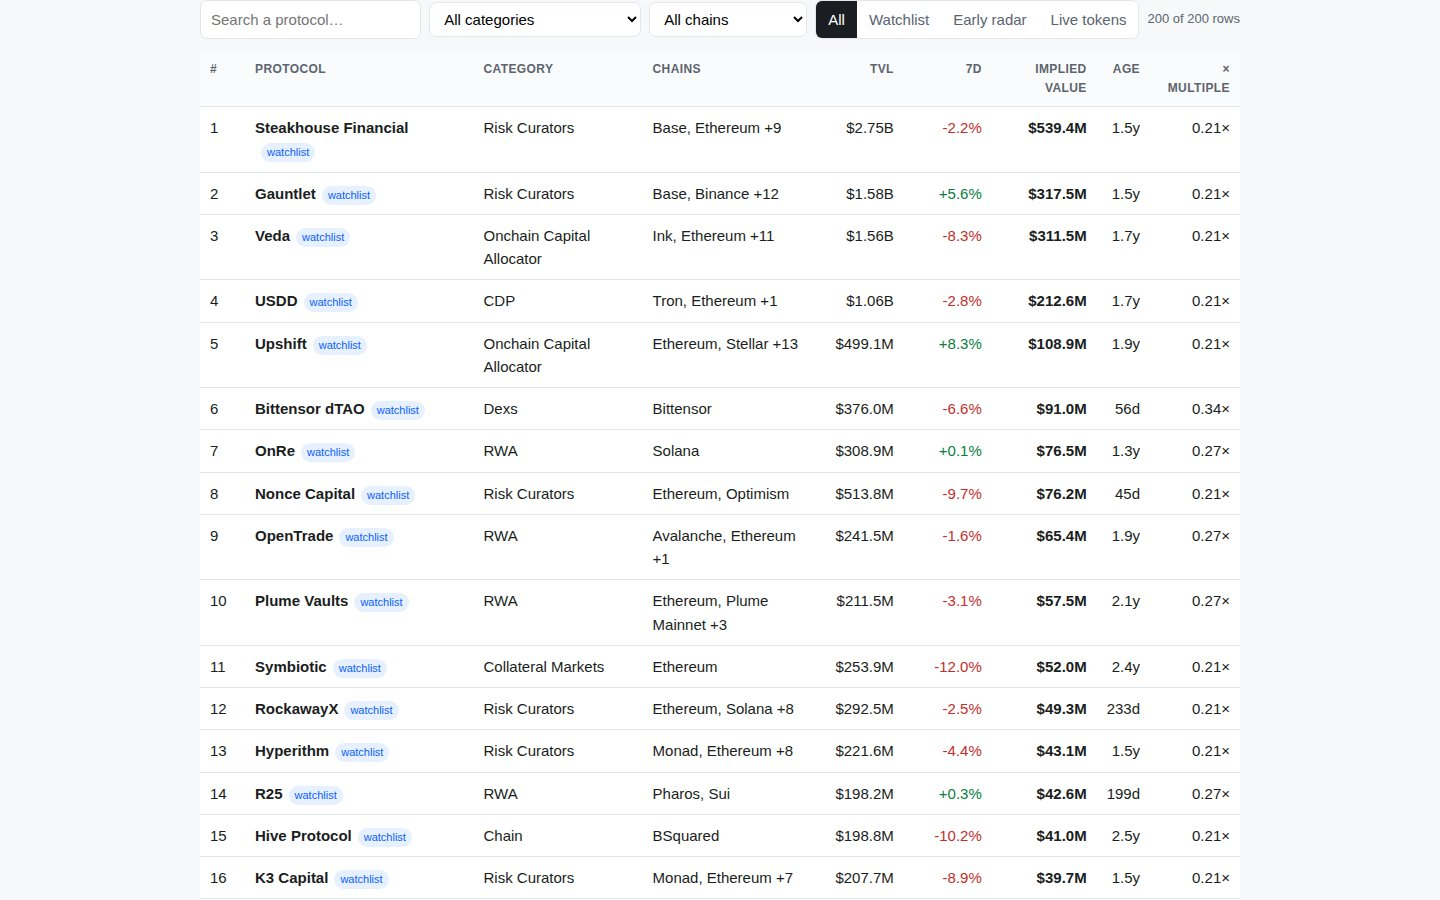
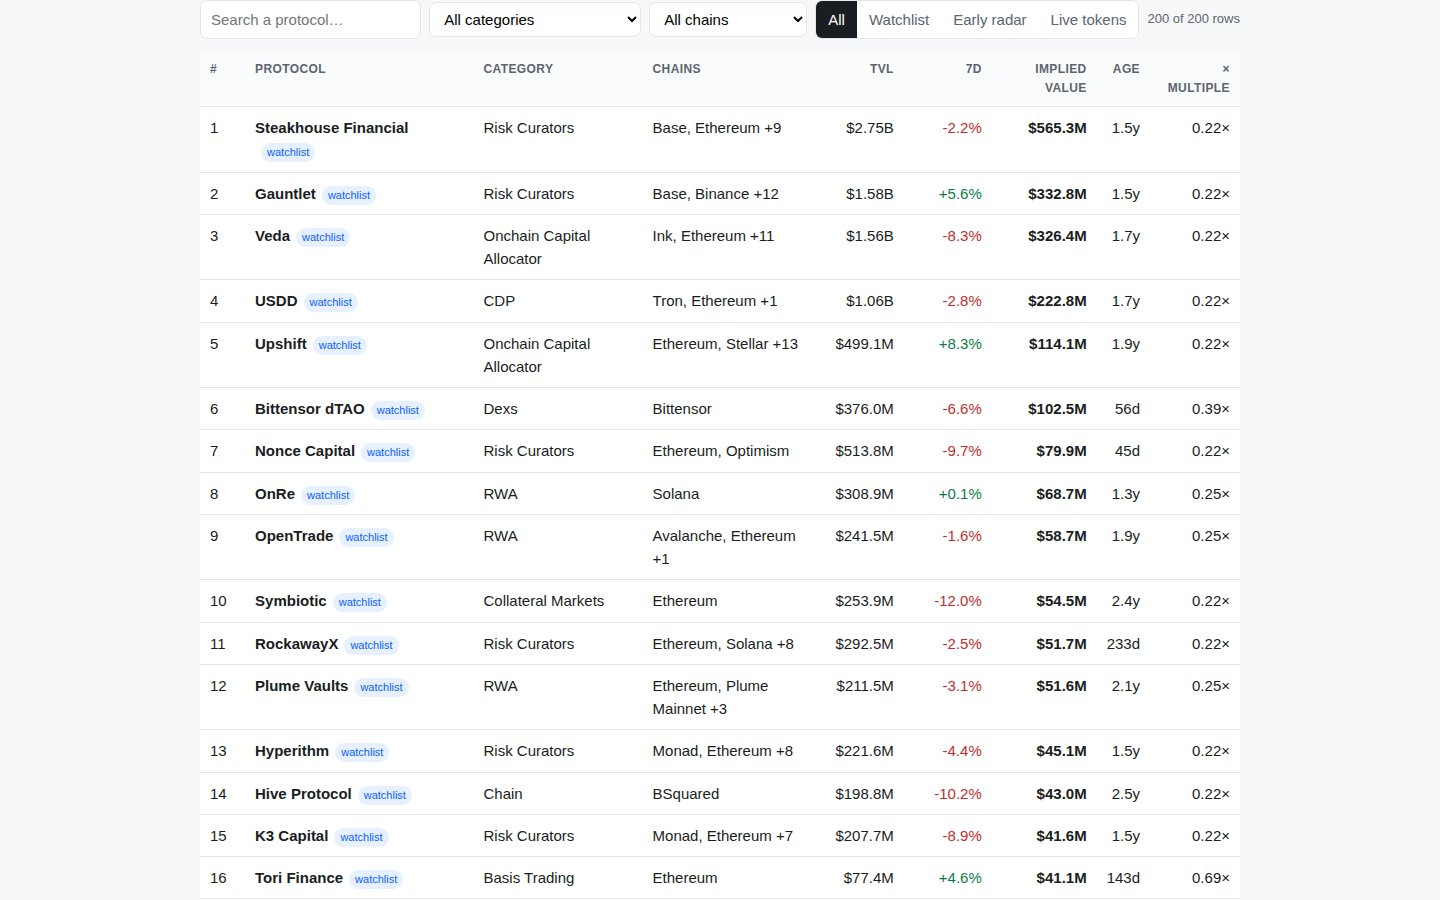
token-radar-01: radar-3 model, geometric-mean category multiples

diff --git a/lib/model.ts b/lib/model.ts
@@ -1,4 +1,4 @@
-// Token radar, model v2 ("radar-2").
+// Token radar, model v3 ("radar-3").
 //
 // The board ranks pre-token protocols by an implied token value derived entirely
 // from the sealed snapshot — no protocol name is ever special-cased, and every
@@ -6,12 +6,20 @@
 //
 //   implied = TVL x category multiple x growth multiplier x maturity multiplier
 //
-// Category multiple: the median market-cap/TVL of the live-token protocols in
-// the same category, computed from this snapshot at run time. The market prices
-// a DEX token at roughly 0.34x its TVL and a liquid-staking token at roughly
-// 0.04x; a flat multiple would pretend every business is worth the same per
-// dollar locked, which the snapshot itself refutes. Categories with fewer than
-// five live samples fall back to the overall median across all live protocols.
+// Category multiple: the geometric mean market-cap/TVL of the live-token
+// protocols in the same category, computed from this snapshot at run time.
+// The market prices a DEX token at roughly 0.39x its TVL and a liquid-staking
+// token at roughly 0.06x; a flat multiple would pretend every business is worth
+// the same per dollar locked, which the snapshot itself refutes. The ratios are
+// log-normal — a few giants stretch the arithmetic mean, and a single order
+// statistic (the median) is noisy at five to fifteen samples per category — so
+// the mean of the log ratios is the centre a multiplicative model should use.
+// Backtested on the snapshot's 119 live-token protocols (leave-one-out, never
+// scoring a protocol against a multiple it contributed to): the geometric mean
+// beats the median on mean absolute log error (1.80 vs 1.87), median absolute
+// log error (1.60 vs 1.66) and the share of predictions within 2x of the true
+// market cap (31% vs 23%). Categories with fewer than five live samples fall
+// back to the overall geometric mean across all live protocols.
 //   growth: the protocol's 7-day TVL change, clamped to [-40, +60] per cent
 //   (the snapshot's largest 7-day jump is over +4,400%, a single-pool artefact
 //   that must not decide a ranking), weighted at 0.35.
@@ -72,7 +80,7 @@ export const MODEL: ModelConstants = {
 };
 
 /** The model's version label: the dashboard names it and the rules quote it. */
-export const MODEL_VERSION = 'radar-2';
+export const MODEL_VERSION = 'radar-3';
 
 /** How many pre-token protocols below the watchlist floor the early radar carries, by TVL. */
 export const EARLY_ROWS = 160;
@@ -204,16 +212,14 @@ function bySlug(protocols: SnapshotProtocol[]): Map<string, SnapshotProtocol> {
   return new Map(protocols.map((p) => [p.slug, p]));
 }
 
-const median = (xs: number[]): number => {
-  const s = [...xs].sort((a, b) => a - b);
-  const mid = Math.floor(s.length / 2);
-  return s.length % 2 === 1 ? s[mid]! : (s[mid - 1]! + s[mid]!) / 2;
-};
+/** The geometric mean: the centre of a log-normal sample, the right average for a multiplicative model. */
+const geoMean = (xs: number[]): number => Math.exp(xs.reduce((sum, x) => sum + Math.log(x), 0) / xs.length);
 
 /**
- * The market's own pricing per category: for every category, the median
- * market-cap/TVL of the live-token protocols in it. Categories with too few
- * live samples use the overall median. Computed from the snapshot at run time.
+ * The market's own pricing per category: for every category, the geometric
+ * mean market-cap/TVL of the live-token protocols in it. Categories with too
+ * few live samples use the overall geometric mean. Computed from the snapshot
+ * at run time.
  */
 export function categoryMultiples(snapshot: Snapshot, model: ModelConstants = MODEL): { byCategory: Map<string, number>; samples: Map<string, number>; overall: number } {
   const byCat = new Map<string, number[]>();
@@ -228,12 +234,12 @@ export function categoryMultiples(snapshot: Snapshot, model: ModelConstants = MO
     list.push(ratio);
     byCat.set(key, list);
   }
-  const overall = all.length > 0 ? median(all) : 0.25;
+  const overall = all.length > 0 ? geoMean(all) : 0.25;
   const byCategory = new Map<string, number>();
   const samples = new Map<string, number>();
   for (const [key, list] of byCat) {
     samples.set(key, list.length);
-    byCategory.set(key, list.length >= model.min_category_samples ? median(list) : overall);
+    byCategory.set(key, list.length >= model.min_category_samples ? geoMean(list) : overall);
   }
   return { byCategory, samples, overall };
 }

diff --git a/dashboard/app.js b/dashboard/app.js
@@ -37,8 +37,8 @@
   $('#model').innerHTML =
     '<h2>How a row is valued — model ' + esc(R.model_version) + '</h2>' +
     '<p><code>implied value = TVL × category multiple × growth × maturity</code></p>' +
-    '<p>The category multiple is the median market-cap / TVL of the live-token protocols in the same category, computed from this snapshot. ' +
-    'Categories with fewer than ' + m.min_category_samples + ' live samples use the overall median of ' + R.overall_multiple.toFixed(3) + '×. ' +
+    '<p>The category multiple is the geometric mean market-cap / TVL of the live-token protocols in the same category, computed from this snapshot. ' +
+    'Categories with fewer than ' + m.min_category_samples + ' live samples use the overall geometric mean of ' + R.overall_multiple.toFixed(3) + '×. ' +
     'Growth is the 7-day TVL change, clamped to [' + m.growth_floor + ', +' + m.growth_cap + ']% and weighted ' + m.growth_weight + '. ' +
     'Maturity rises from ' + m.maturity_floor + ' for a new protocol to ' + (m.maturity_floor + m.maturity_range) + ' at ' + m.maturity_days + ' days without a token; an unknown listing date counts as ' + m.unknown_age_days + ' days.</p>' +
     '<table><thead><tr><th>Category</th><th class="num">Multiple</th><th class="num">Samples</th></tr></thead><tbody>' + multRows + '</tbody></table>';

diff --git a/main.ts b/main.ts
@@ -1,7 +1,7 @@
 // Token radar entry (Node 22, standard library only).
 //
 // Reads the sealed snapshot from /input/snapshot.json (or --input <file|dir>),
-// scores every pre-token protocol with the radar-2 model in lib/model.ts, writes
+// scores every pre-token protocol with the radar-3 model in lib/model.ts, writes
 // the ranked board to /output/board.json, and copies this repository's dashboard/
 // and screenshots/ to /output. Last, it writes /output/dossier.json, the summary
 // the judge reads, with the vendored make.fun library.

diff --git a/README.md b/README.md
@@ -26,7 +26,7 @@ A static dashboard that scores every pre-token protocol in the sealed snapshot a
 implied value = TVL × category multiple × growth × maturity
 ```
 
-- **Category multiple** — the median market-cap / TVL of the live-token protocols in the same category, computed from this snapshot at runtime. Categories with fewer than 5 live samples fall back to the overall median (0.214×).
+- **Category multiple** — the geometric mean market-cap / TVL of the live-token protocols in the same category, computed from this snapshot at runtime. Categories with fewer than 5 live samples fall back to the overall geometric mean (0.224×). Backtested leave-one-out on the snapshot's 119 live-token protocols: geometric mean beats the median on mean absolute log error (1.80 vs 1.87), median absolute log error (1.60 vs 1.66) and predictions within 2× of the true market cap (31% vs 23%).
 - **Growth** — the 7-day TVL change, clamped to [-40%, +60%] and weighted 0.35, so one outlier week cannot dominate the ranking.
 - **Maturity** — days without a token, rising from 0.7 for a new protocol to 1.0 at 730 days; an unknown listing date counts as 365 days.
 
@@ -64,7 +64,7 @@ The three screenshots in this repository are real JPEGs, captured from the dashb
 | File | What it is |
 |---|---|
 | `main.ts` | Entry point: reads the snapshot, scores, writes the output. |
-| `lib/model.ts` | The radar-2 model, the board builder and the dashboard data. |
+| `lib/model.ts` | The radar-3 model, the board builder and the dashboard data. |
 | `vendor/makefun-board.ts` | The official make.fun board library, copied verbatim. |
 | `dashboard/` | The static page: `index.html`, `app.css`, `app.js`. |
 | `screenshots/` | The three views, real JPEGs (see above). |
